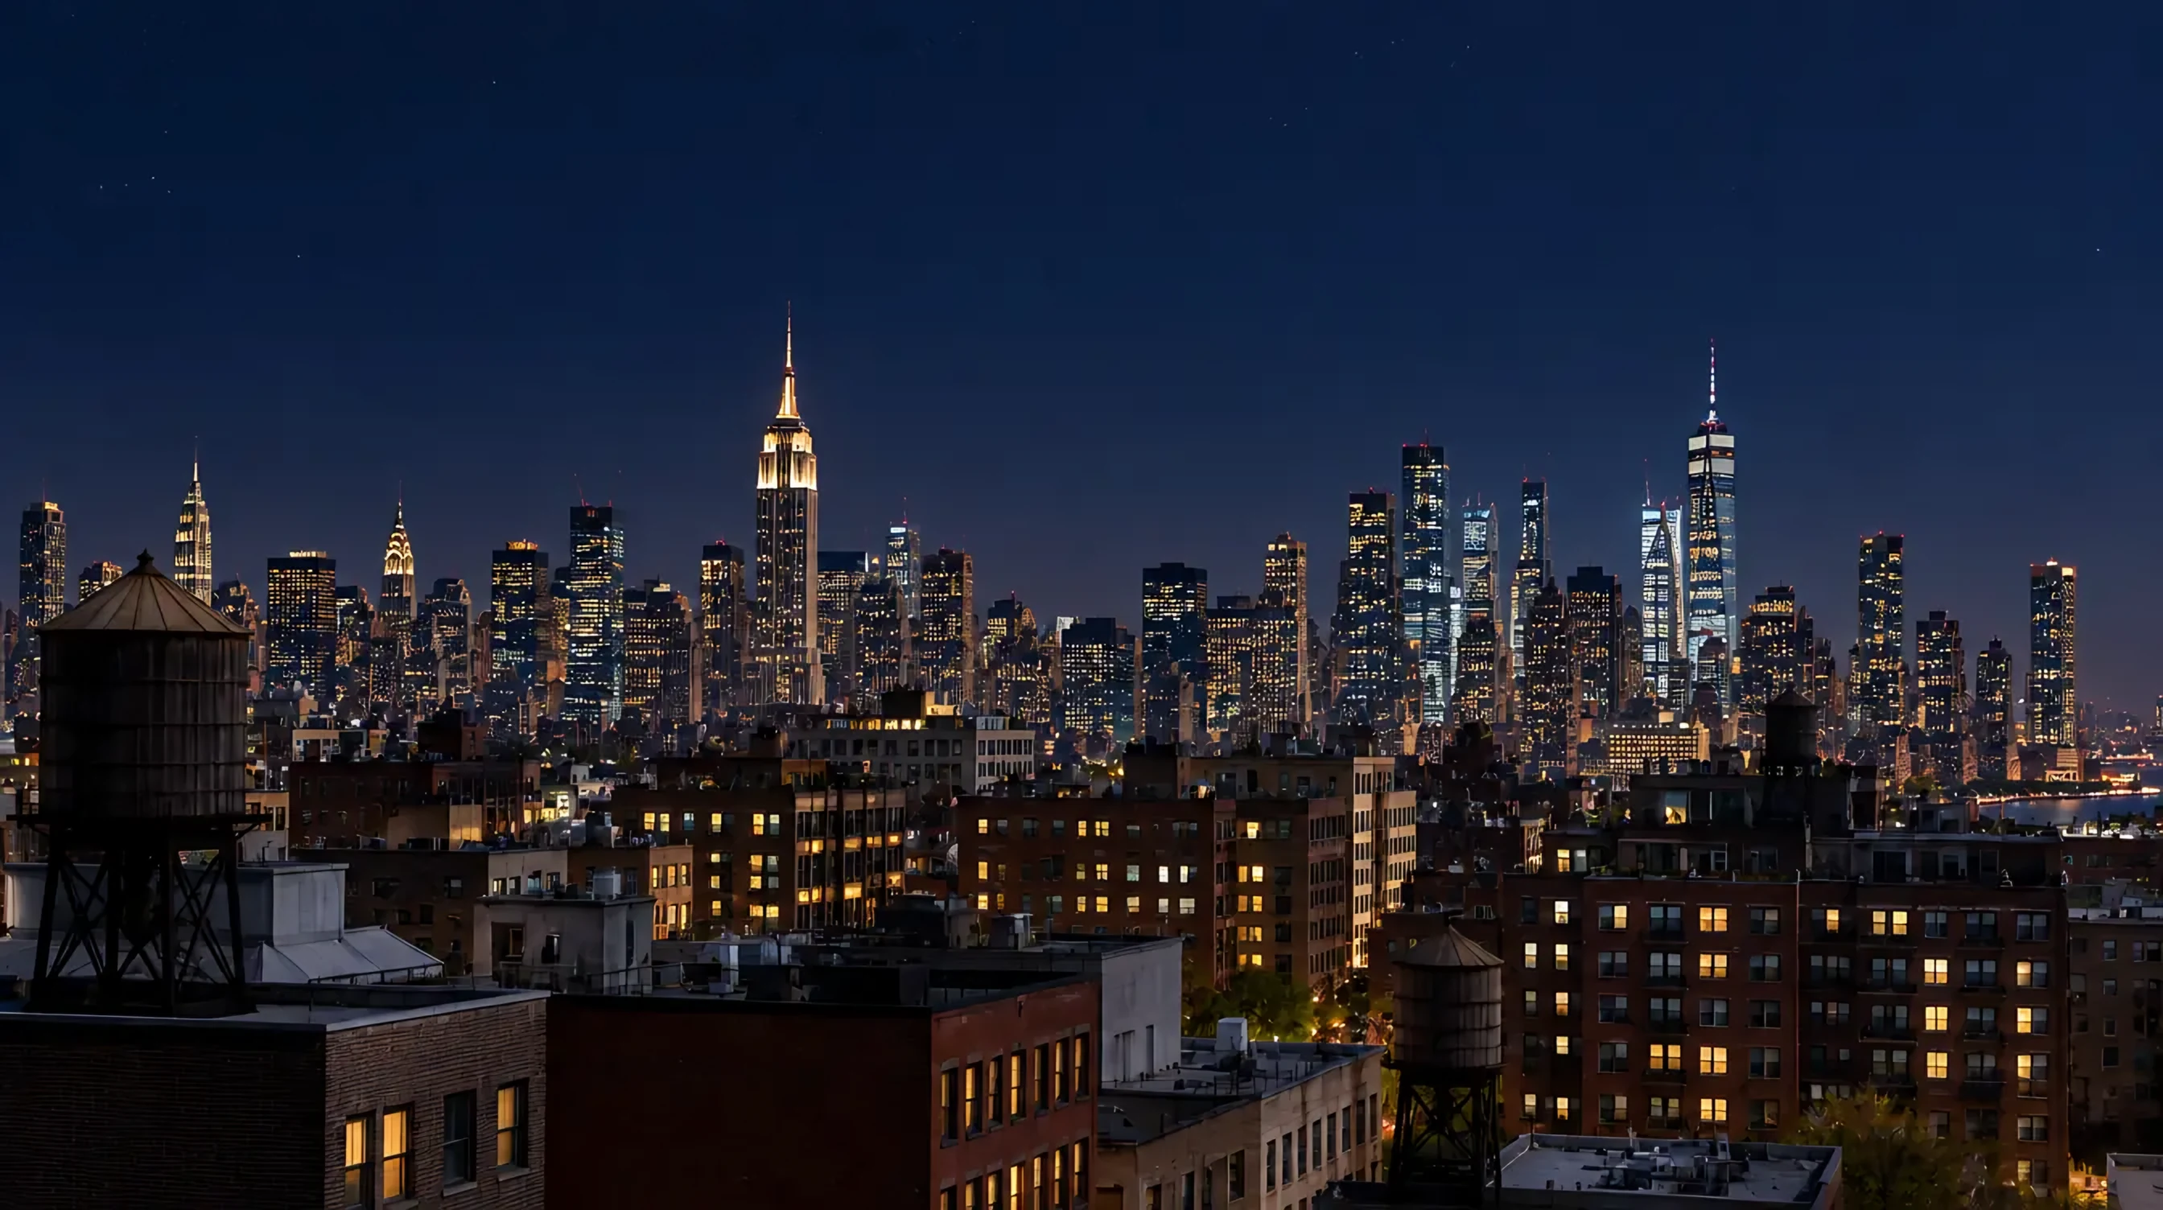
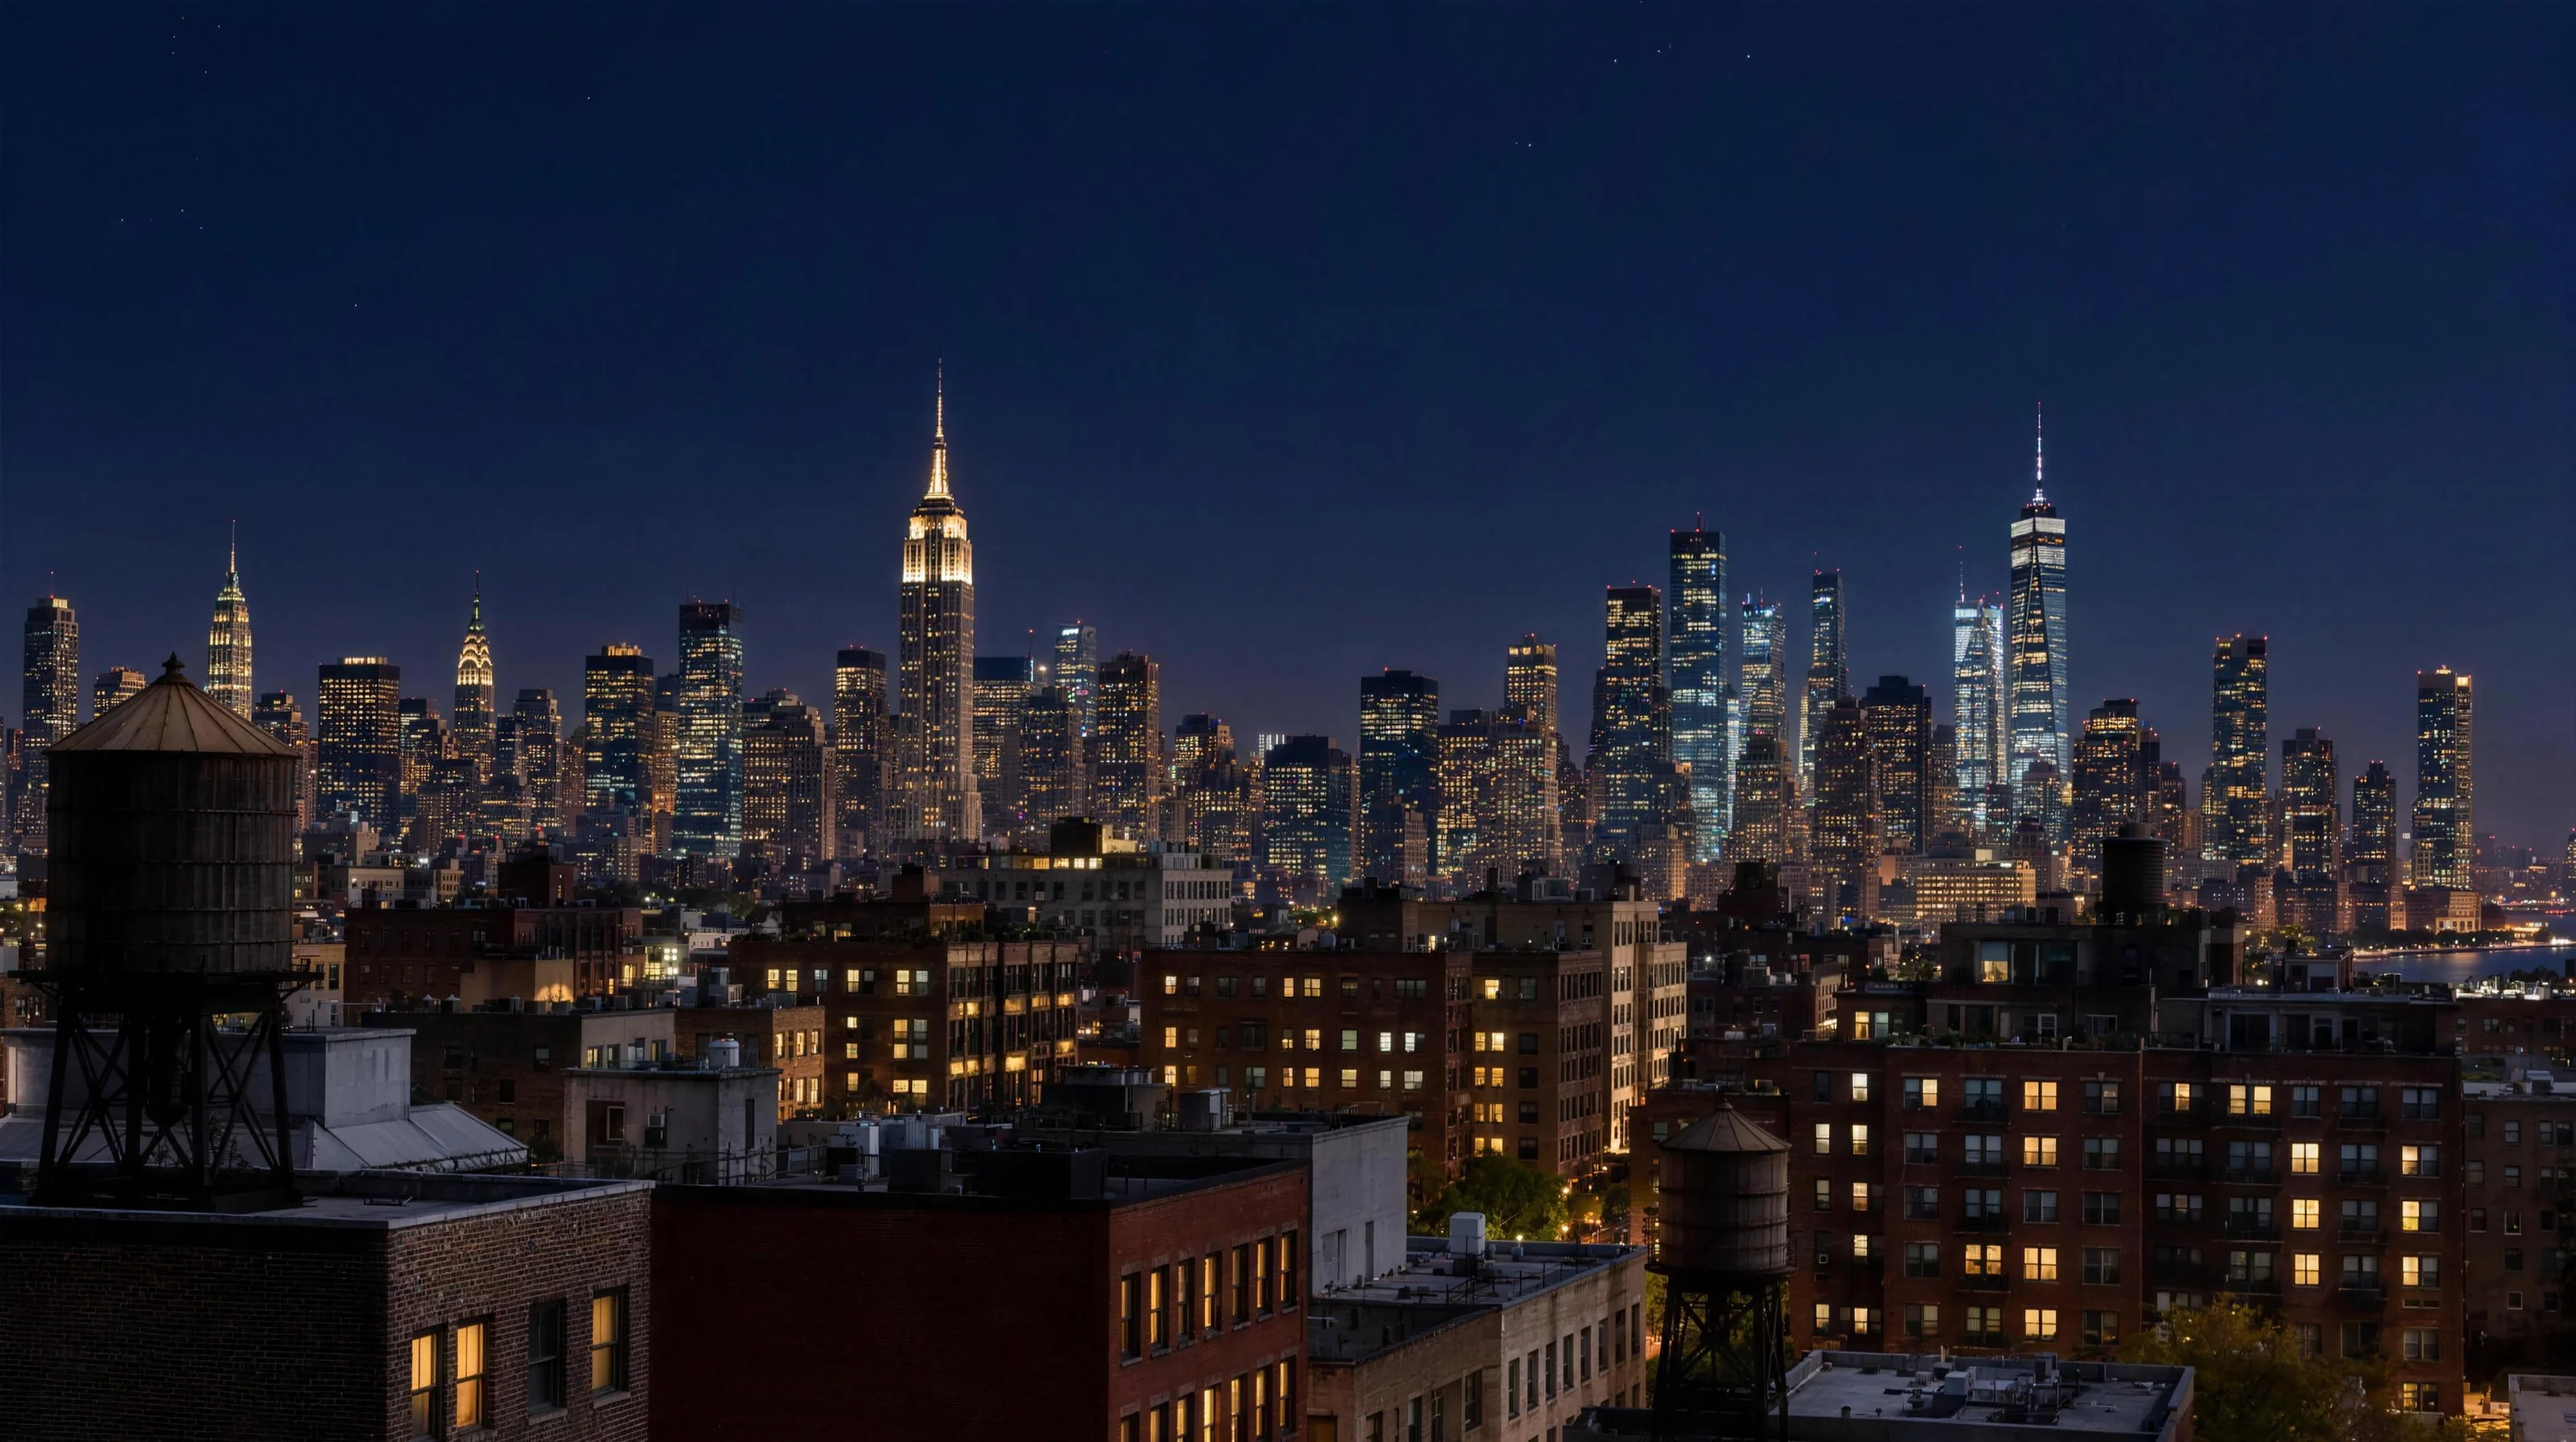
4K upscaled skies and concrete (Higgsfield), sharper gallery tile, cache-busted image URLs
Claude-Session: https://claude.ai/code/session_01QNdbuuninaoyHG1bQHaLkU

diff --git a/index.html b/index.html
@@ -226,11 +226,11 @@ const CONFIG = {
   assets: {
     signal:   "img/signal.webp",
     /* Backgrounds ship in three sizes: big (retina desktop), mid (1x desktop), tall (portrait phones). */
-    skyDay:   { big: "img/sky-day-2688.webp",   mid: "img/sky-day-1920.webp",   tall: "img/sky-day-m.webp" },
-    skyGold:  { big: "img/sky-gold-2688.webp",  mid: "img/sky-gold-1920.webp",  tall: "img/sky-gold-m.webp" },
-    skyNight: { big: "img/sky-night-2688.webp", mid: "img/sky-night-1920.webp", tall: "img/sky-night-m.webp" },
+    skyDay:   { big: "img/sky-day-2688.webp?v=4k",   mid: "img/sky-day-1920.webp?v=4k",   tall: "img/sky-day-m.webp?v=4k" },
+    skyGold:  { big: "img/sky-gold-2688.webp?v=4k",  mid: "img/sky-gold-1920.webp?v=4k",  tall: "img/sky-gold-m.webp?v=4k" },
+    skyNight: { big: "img/sky-night-2688.webp?v=4k", mid: "img/sky-night-1920.webp?v=4k", tall: "img/sky-night-m.webp?v=4k" },
     pole:     "img/pole.webp",
-    concrete: { big: "img/concrete-2688.webp",  mid: "img/concrete-1920.webp",  tall: "img/concrete-m.webp" }
+    concrete: { big: "img/concrete-2688.webp?v=4k",  mid: "img/concrete-1920.webp?v=4k",  tall: "img/concrete-m.webp?v=4k" }
   },
   artist: {
     first: "Bruno", last: "Saquicela",

diff --git a/item.html b/item.html
@@ -14,7 +14,7 @@
 html,body{margin:0;background:#5f5c56;color:var(--ink)}
 body{font-family:var(--f);-webkit-font-smoothing:antialiased;min-height:100dvh;
   background:radial-gradient(ellipse 70% 45% at 50% 18%,rgba(255,236,200,.42),transparent 70%),
-    linear-gradient(180deg,rgba(0,0,0,.25),rgba(0,0,0,.45)),url("img/concrete-tile.webp") center top / 520px auto repeat,#6d6a63}
+    linear-gradient(180deg,rgba(0,0,0,.25),rgba(0,0,0,.45)),url("img/concrete-tile.webp?v=4k") center top / 600px auto repeat,#6d6a63}
 [hidden]{display:none!important}
 button{font:inherit;color:inherit}
 a{color:inherit}

diff --git a/checkout.html b/checkout.html
@@ -13,7 +13,7 @@
 *{box-sizing:border-box}
 html,body{margin:0;background:#6d6a63;color:var(--ink)}
 body{font-family:var(--f);-webkit-font-smoothing:antialiased;min-height:100dvh;
-  background:linear-gradient(180deg,rgba(0,0,0,.28),rgba(0,0,0,.42)),url("img/concrete-tile.webp") center top / 520px auto repeat,#6d6a63}
+  background:linear-gradient(180deg,rgba(0,0,0,.28),rgba(0,0,0,.42)),url("img/concrete-tile.webp?v=4k") center top / 600px auto repeat,#6d6a63}
 [hidden]{display:none!important}
 button,input,select,textarea{font:inherit;color:inherit}
 a{color:inherit}

diff --git a/gallery.html b/gallery.html
@@ -22,7 +22,7 @@ body{font-family:var(--f-sign);-webkit-font-smoothing:antialiased;overflow-x:cli
   background:
     radial-gradient(ellipse 70% 38% at 50% 0%,rgba(255,214,150,.38),transparent 70%),
     linear-gradient(180deg,rgba(10,12,20,.55),rgba(10,12,20,.15) 30%,rgba(10,12,20,.45)),
-    url("img/concrete-tile.webp") center top / 520px auto repeat,#6d6a63}
+    url("img/concrete-tile.webp?v=4k") center top / 600px auto repeat,#6d6a63}
 img{max-width:100%;display:block}
 [hidden]{display:none!important}
 button{font:inherit;color:inherit}
